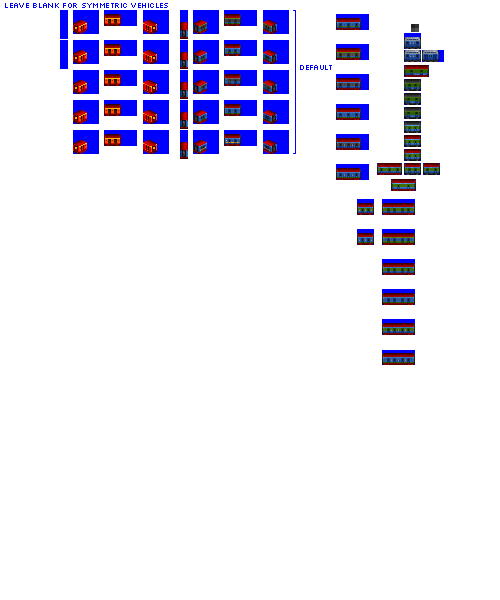
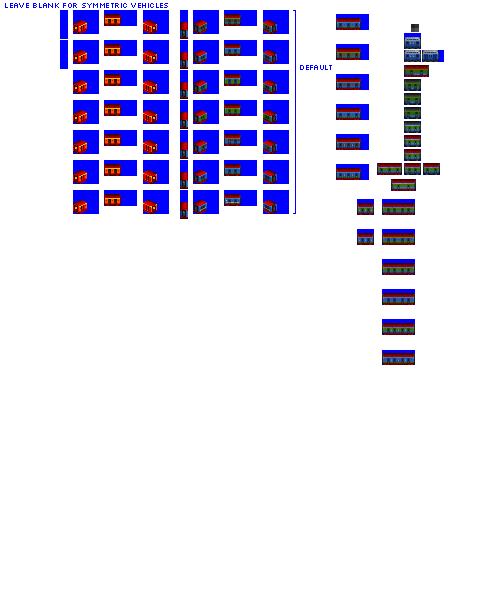
Change: extend gen 5 pony mail cars with former gen 6 liveries

diff --git a/src/vehicles/pony/mail_cars_pony.py b/src/vehicles/pony/mail_cars_pony.py
@@ -172,6 +172,7 @@ def main(roster_id, **kwargs):
         base_numeric_id=30160,
         gen=5,
         subtype="A",
+        liveries="gen_5_and_6_mail_liveries",  # override default liveries from gestalt
         sprites_complete=True,
     )
 
@@ -183,6 +184,7 @@ def main(roster_id, **kwargs):
         base_numeric_id=30170,
         gen=5,
         subtype="B",
+        liveries="gen_5_and_6_mail_liveries",  # override default liveries from gestalt
         sprites_complete=True,
     )
 
@@ -194,6 +196,7 @@ def main(roster_id, **kwargs):
         base_numeric_id=30180,
         gen=5,
         subtype="C",
+        liveries="gen_5_and_6_mail_liveries",  # override default liveries from gestalt
         sprites_complete=True,
     )
 
